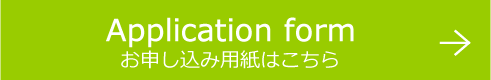
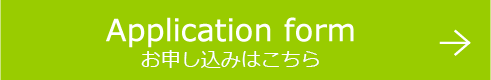
TOP Welcome to Seta International School !エリア改修 他細かな改修

Changed region(s): [[0.2444, 0.625, 0.7026, 0.85]]

diff --git a/summerschool/index.html b/summerschool/index.html
@@ -142,16 +142,15 @@
           starting from July 4, and running until August 5, 2022.</div>
         <div class="mT30">The program is divided into several theme-based, one-week sessions where the children<br>
           will participate in various activities designed by our teachers. Please note that different<br>
-          teams of SIS teachers will be coordinating the program during different sessions and<br>
+          teams of Seta teachers will be coordinating the program during different sessions and<br>
           that substitute teachers may participate occasionally. The program welcomes both<br>
           children who are currently enrolled in regular classes at Seta and those who are not.</div>
         <div class="mT30">お待たせいたしました!!7月4日から8月5日まで、瀬田インターナショナルスクールで熱い夏が始まります。
           みんなで一緒に楽しい夏を瀬田インターナショナルスクールで過ごしませんか？</div>
         <p class="mT80"><img src="images/img_02.png" alt="Session / Typical Daily Schedule" width="1000" height="582"></p>
-        <div class="mT70">If you are interested in enrolling your child in this program, please submit an application.First come, first served. If you have questions, please do not hesitate to contact the school director at any time. </div>
-        <div class="mT30">別紙の申し込み用紙にご記入の上、お申し込みください。定員になり次第締め切らせていただきますので、お早めにお申し込みください。また、お申し込み多数の場合は、お申し込み順となりますのでご了承ください。ご質問等ございましたらお気軽にお問い合わせください。
-           </div>
-        <p class="mT90 txtC"><a href="../applicationforms/#summerschool" class="alpha"><img src="images/btn_01.png" alt="Application form お申し込み用紙はこちら" width="491" height="80"></a></p>
+        <div class="mT70">If you are interested in enrolling your child in this program, please submit an online application below. We will contact you to proceed with the registration. The registration will be completed with the confirmation of the required documents and payment. Please be advised that there is limited space available, so we can accommodate children on a first-come, first served basis. If you have questions, please do not hesitate to contact us at any time.</div>
+        <div class="mT30">お申込みご希望の方は、下記のオンラインフォームよりお申し込みください。定員になり次第締め切らせていただきます。また、お申し込み多数の場合は、お申し込み順となりますのでご了承ください。ご質問等ございましたらお気軽にお問い合わせください。</div>
+        <p class="mT90 txtC"><a href="https://form.jotform.com/221940476579467" class="alpha"><img src="images/btn_01.png" alt="Application form お申し込み用紙はこちら" width="491" height="80"></a></p>
         <ul class="nav_summer_saturday clearfix pcView">
           <li><img src="../common/images/nav_summer_saturday_01_on.png" alt="Summer School" width="244" height="21"></li>
           <li><a href="../saturdayschool/"><img src="../common/images/nav_summer_saturday_02.png" alt="Saturday School &amp; Phonics" width="362" height="23" class="imgover"></a></li>

diff --git a/common/css/style.css b/common/css/style.css
@@ -82,9 +82,56 @@ div#mysagscroller2 ul li img{
 	width:490px;
 }
 
-#contents.top .sec01 .fR iframe {
-	vertical-align:bottom;
+#contents.top .sec01 .fR .bnr__image-wrapper {
+	position: relative;
+	overflow: hidden;
 }
+
+#contents.top .sec01 .fR .bnr__image-wrapper img {
+	transform: scale(1);
+	transition: all 0.5s;
+}
+
+
+#contents.top .sec01 .fR .bnr__image-wrapper:hover img {
+	transform: scale(1.2);
+}
+
+#contents.top .sec01 .fR .bnr__content {
+	display: flex;
+	position: absolute;
+	background-color: rgba(0,0,0,0.5);
+	top: 0;
+	left: 0;
+	width: 100%;
+	height: 100%;
+	flex-direction: column;
+	justify-content: center;
+	align-items: center;
+}
+
+#contents.top .sec01 .fR .bnr__content p {
+	color: #fff;
+	font-weight: 700;
+	font-size: 32px;
+	letter-spacing: 0.1em;
+}
+
+#contents.top .sec01 .fR .bnr__content .btn {
+	color: #fff;
+	margin-top: 20px;
+	padding: 5px 25px;
+	border: 2px solid #fff;
+	font-size: 18px;
+	transition: background-color 0.2s,color 0.2s;
+	text-decoration: none;
+}
+
+#contents.top .sec01 .fR .bnr__content .btn:hover {
+	background: #fff;
+	color: #555;
+}
+
 
 #contents.top .sec02 {
 	background:#009944 url(../../images/bg_03.png) no-repeat center top;
@@ -612,9 +659,13 @@ div#mysagscroller2 ul li img{
 	margin-bottom:50px;
 }
 #contents.whychoose h3 {
-	margin-bottom:60px;
+	margin-bottom:40px;
 	font-size:30px;
 	font-weight:normal;
+}
+#contents.whychoose .youtube {
+	margin-bottom: 64px;
+	text-align: center;
 }
 #contents.whychoose .block {
 	border-bottom:1px solid #EAEAEA;

diff --git a/index.html b/index.html
@@ -327,16 +327,19 @@ $(function(){
 
 </div><!-- /.txt01 -->
 
-<p class="mT20"><a href="whychoose/" class="alpha"><img src="images/btn_01.png" alt="" width="490" height="80"></a></p>
 </div>
 
 
 
 
 <div class="fR">
-<div><img src="images/img_01.jpg" alt="" width="450" height="28"></div>
-<div><iframe width="450" height="253" src="https://www.youtube.com/embed/2g9_YNWlx24?rel=0&amp;showinfo=0" frameborder="0" allowfullscreen></iframe></div>
-<div><img src="images/img_01.jpg" alt="" width="450" height="28"></div>
+<div class="bnr__image-wrapper">
+  <img src="/images/bnr_bg.jpg" alt="">
+  <div class="bnr__content">
+    <p>Why Seta?</p>
+    <a class="btn" href="http://www.seta-inter.com/whychoose/">Learn more</a>
+  </div>
+</div>
 </div>
 
 

diff --git a/whychoose/index.html b/whychoose/index.html
@@ -154,6 +154,10 @@
 <h2 class="ttlCustom01"><span>Why Choose Seta?</span></h2>
 <h3>Let's hear it from the parents!</h3>
 
+<div class="youtube">
+  <iframe width="560" height="315" src="https://www.youtube.com/embed/1cqGPaiixIY" title="YouTube video player" frameborder="0" allow="accelerometer; autoplay; clipboard-write; encrypted-media; gyroscope; picture-in-picture" allowfullscreen></iframe>
+</div>
+
 <div class="block clearfix">
 <p>M.&amp; A.S., Germany<img src="images/icon_01.png" width="29" height="20" alt="Germany"></p>
 <p>The good impression we had during the introductory visit at SIS was quickly confirmed:</p>
